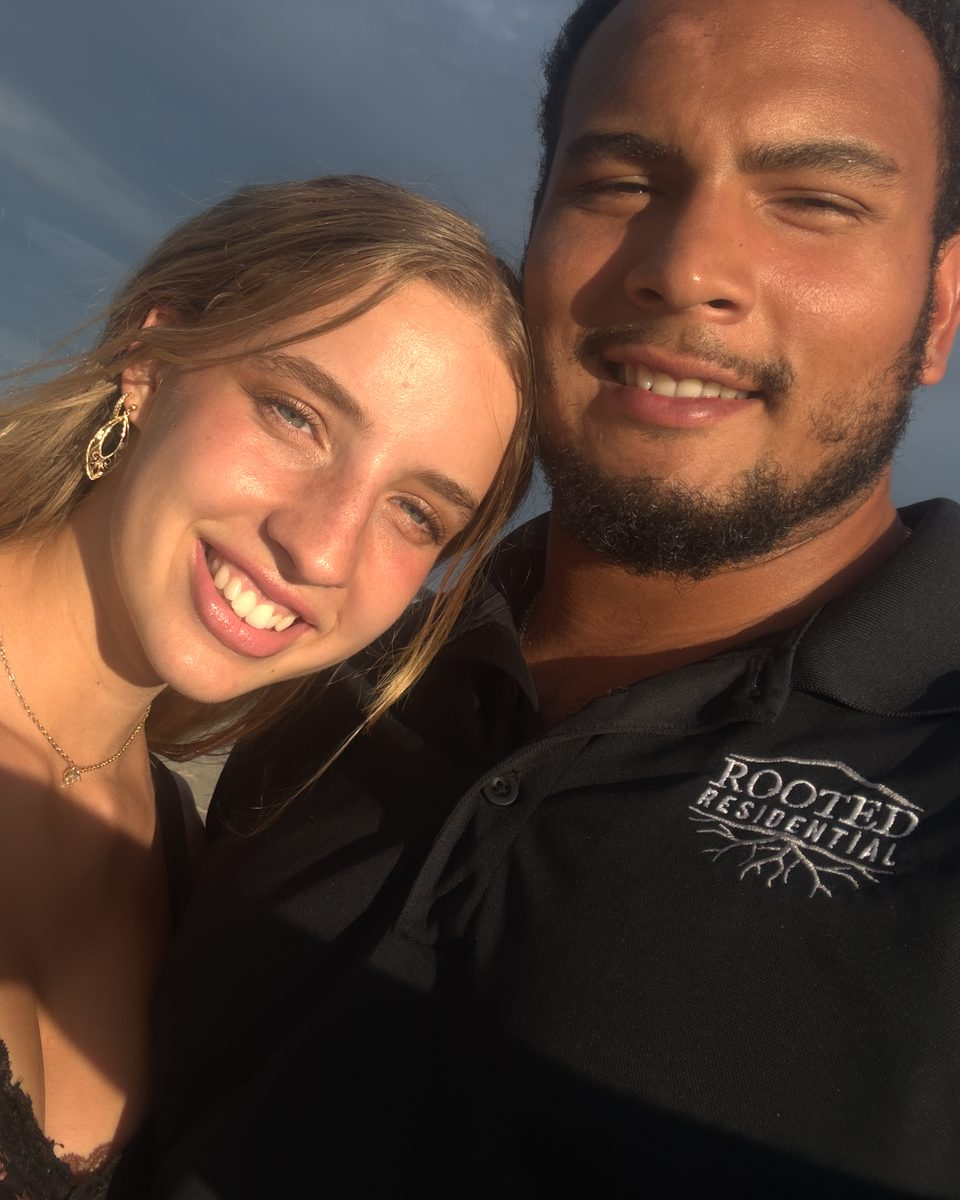
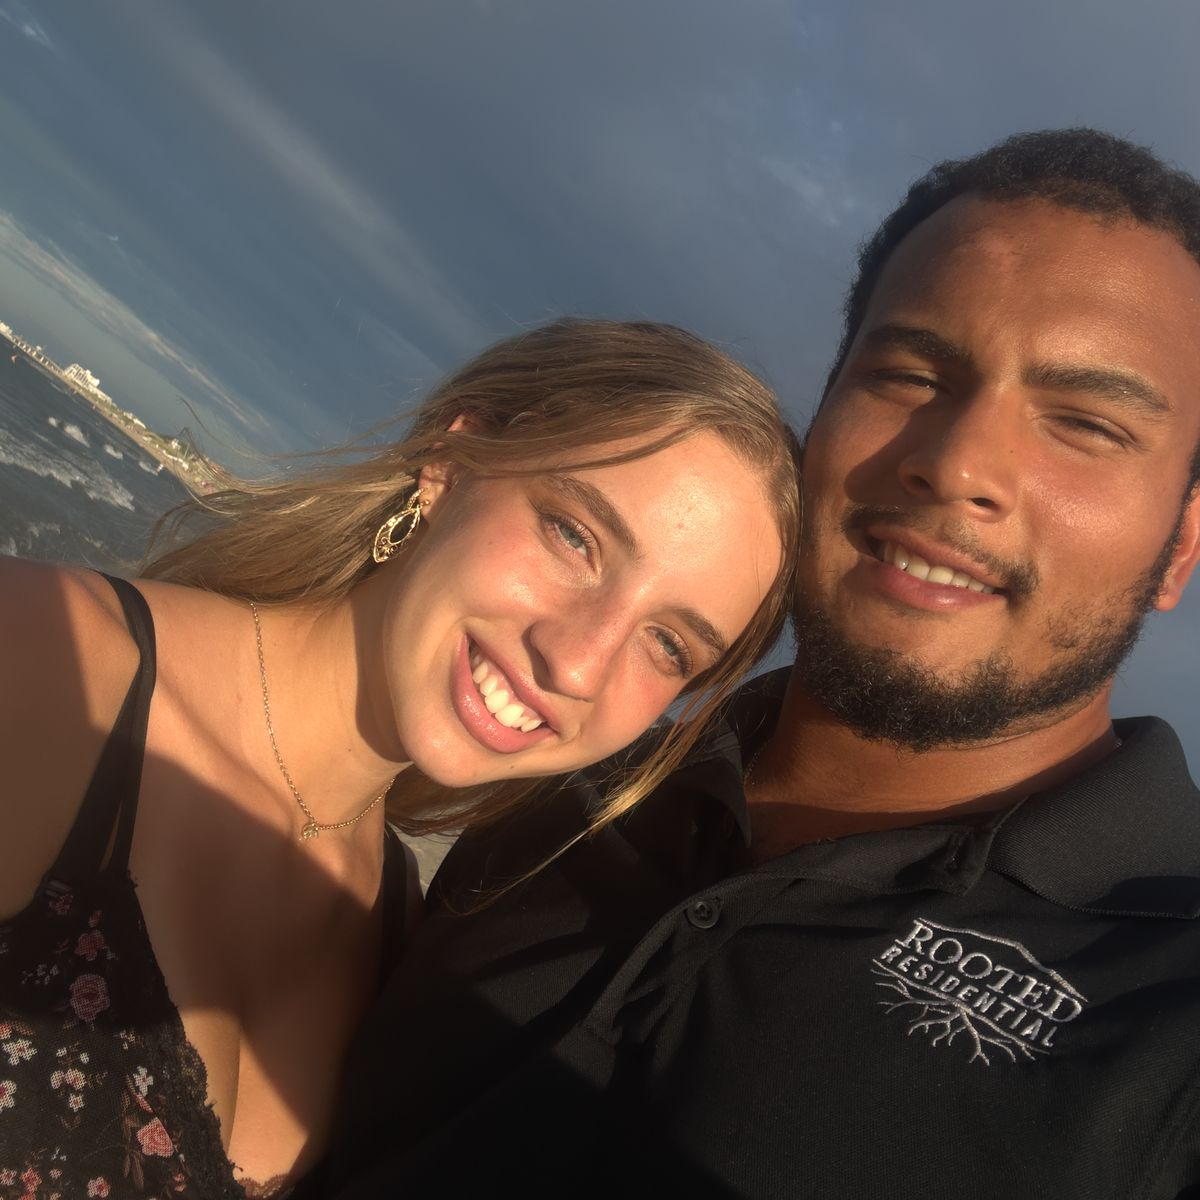
About: wider square photo of Manny and his wife, gentler straightening

diff --git a/src/app/(english)/about/about.css b/src/app/(english)/about/about.css
@@ -35,6 +35,6 @@
 .about-page .about-salt{padding:38px;background:var(--sand);border-left:4px solid #c9973a}
 .about-page .about-personal .about-salt p.about-salt-welcome{color:var(--navy);font-weight:700;margin:0}
 .about-page .about-outside{padding-top:38px}
-.about-page .about-outside-photo{display:block;width:100%;max-width:420px;height:auto;aspect-ratio:4/5;object-fit:cover;border-radius:10px;margin:0 0 32px;background:#e8e1d2}
+.about-page .about-outside-photo{display:block;width:100%;max-width:480px;height:auto;aspect-ratio:1/1;object-fit:cover;border-radius:10px;margin:0 0 32px;background:#e8e1d2}
 @media(max-width:1100px){.about-page .about-ways-grid article{padding:6px 22px 0}.about-page .about-ways-grid article:first-child{padding-left:0}.about-page .about-ways h3{font-size:23px}}
 @media(max-width:820px){.about-page .about-hero{grid-template-columns:1fr;padding:48px 24px 70px;gap:34px}.about-page .about-hero-photo{max-width:none;aspect-ratio:1/1}.about-page .about-story{padding:80px 24px 70px}.about-page .about-ways{padding:80px 24px}.about-page .about-ways-grid,.about-page .about-personal{grid-template-columns:1fr}.about-page .about-pm{padding:80px 24px}.about-page .about-personal{padding:80px 24px 20px;gap:50px}.about-page .about-salt{padding:28px 24px}.about-page .about-outside{padding-top:0}.about-page .about-ways-grid article{border-left:0;border-top:1px solid #345064;padding:28px 0 0}.about-page .about-ways-grid article:first-child{border-top:0;padding-top:0}.about-page .about-cta-actions{width:100%;flex-direction:column}}

diff --git a/src/app/(english)/about/page.tsx b/src/app/(english)/about/page.tsx
@@ -67,7 +67,7 @@ export default function AboutPage() {
           <p className="about-salt-welcome">My faith shapes how I work, not who I work with. Whatever you believe, you will get the same respect, honesty, and effort from me.</p>
         </aside>
         <div className="about-outside">
-          <Image className="about-outside-photo" src="/images/about/manny-and-wife.jpg" alt="Manny and his wife at the beach" width={960} height={1200} loading="lazy" sizes="(max-width: 820px) 100vw, 420px" />
+          <Image className="about-outside-photo" src="/images/about/manny-and-wife.jpg" alt="Manny and his wife at the beach" width={1200} height={1200} loading="lazy" sizes="(max-width: 820px) 100vw, 480px" />
           <p className="eyebrow">Outside of Work</p>
           <h2>A little more about me.</h2>
           <p>Outside of real estate, I enjoy spending time with my wife and family, serving at our local church, and staying active through weightlifting and pickleball. You&rsquo;ll also find me enjoying the beach or making a good espresso at home.</p>
